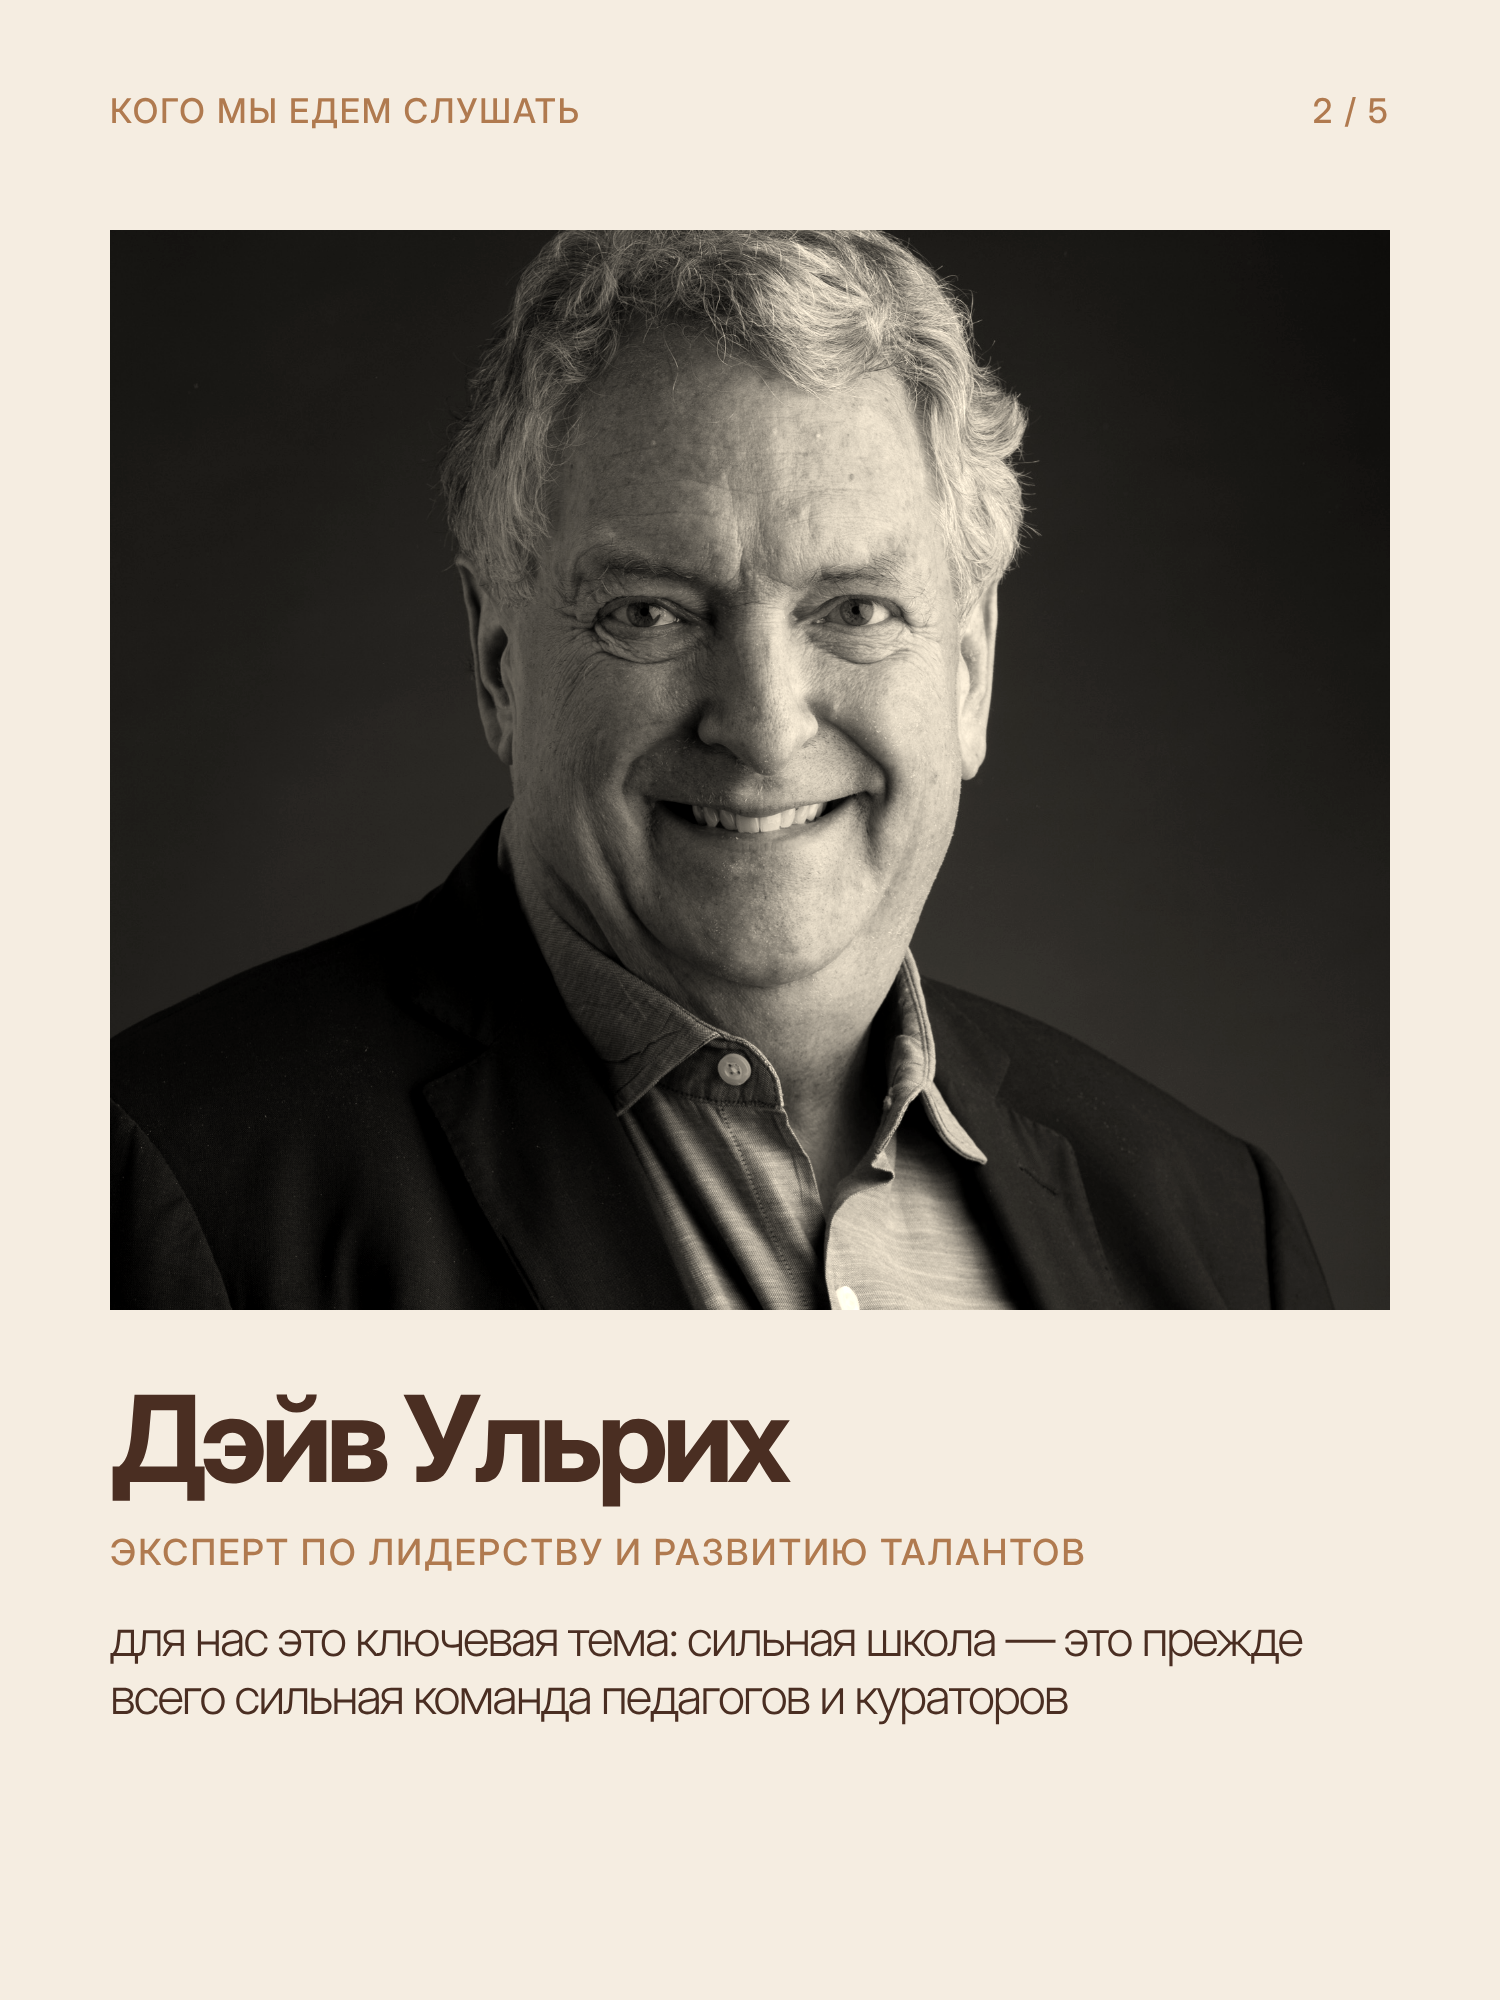
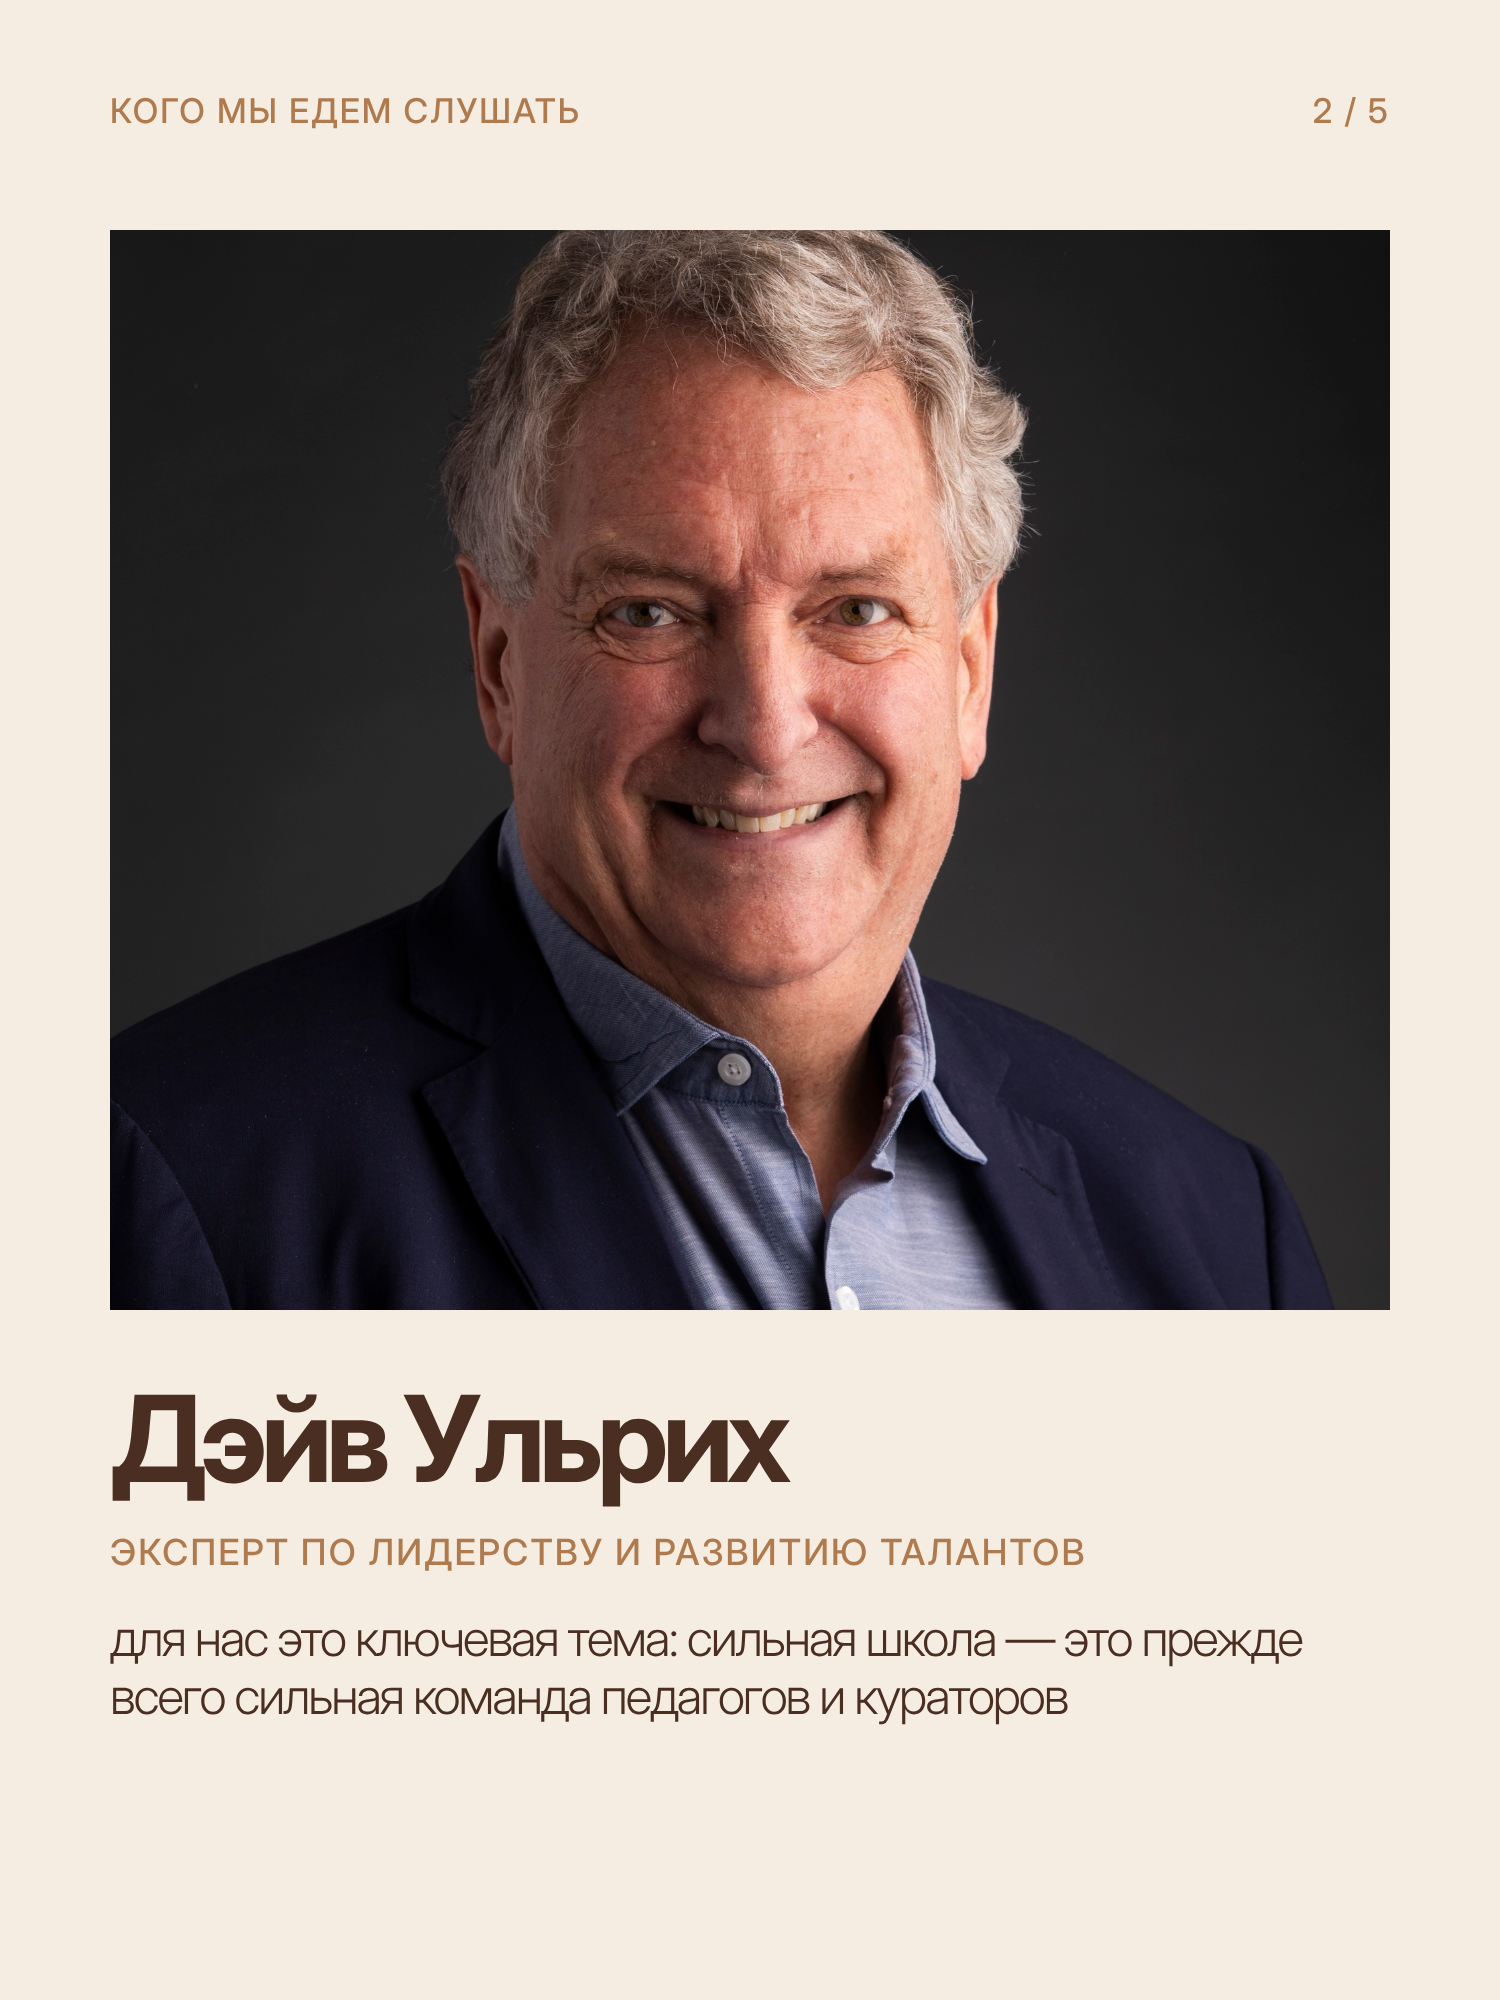
Summit carousel: Ulrich photo in color
Claude-Session: https://claude.ai/code/session_01EUhV7wSY77qAG1LrFAuACB

Changed region(s): [[0.3067, 0.155, 0.828, 0.682], [0.276, 0.62, 0.3067, 0.651]]

diff --git a/carousel-summit/carousel.html b/carousel-summit/carousel.html
@@ -70,7 +70,7 @@
 
 <section class="slide" id="s6">
   <div class="meta"><span>кого мы едем слушать</span><span>2 / 5</span></div>
-  <img class="sp" src="photos/ulrich.jpg" style="object-position:50% 25%">
+  <img class="sp" src="photos/ulrich.jpg" style="object-position:50% 25%;filter:none">
   <div class="name h">Дэйв Ульрих</div>
   <div class="role">эксперт по лидерству и развитию талантов</div>
   <div class="desc t">для нас это ключевая тема: сильная школа — это прежде всего сильная команда педагогов и кураторов</div>
